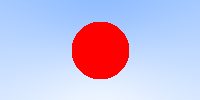
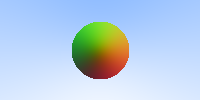
Oriented camera in positive z

Changed region(s): [[0.36, 0.21, 0.66, 0.81]]

diff --git a/src/main.rs b/src/main.rs
@@ -69,7 +69,13 @@ mod tests{
         assert_eq!(p.x, 1.0);
         assert_eq!(p.y, 1.0);
         assert_eq!(p.z, 1.0);
-        Vector3::new(1.0, 2.0, 3.0).dot(Vector3::new(3.0, 4.0, 1.0))
+        Vector3::new(1.0, 2.0, 3.0).dot(Vector3::new(3.0, 4.0, 1.0));
+    }
+
+    #[test]
+    fn test_unit_vector() {
+        let v = unit_vector(&Vector3::new(2.0, 2.0, 2.0));
+        assert_eq!(v.x, 0.57735026);
     }
 }
 
@@ -90,24 +96,40 @@ fn gradient_color(r: &Ray) -> Vector3<f32> {
     return (1.0-t) * Vector3::new(1.0, 1.0, 1.0) + t * Vector3::new(0.5, 0.7, 1.0);
 }
 
-fn test(v: Vector3<f32>) {
-    v.dot(v);
-}
-
 fn trace(r: &Ray) -> Vector3<f32> {
-    if hit_sphere(Vector3::new(0.0, 0.0, -1.0), 0.5, r) {
-        return Vector3::new(1.0, 0.0, 0.0)
+    let sphere_center = Vector3::new(0.0, 0.0, 1.0);
+    let (is_hit, surface_norm_t) = hit_sphere(
+        sphere_center,
+        0.5,
+        r
+    );
+    if is_hit {
+        let n = unit_vector(
+            //&(r.point(surface_norm_t) - Vector3::new(0.0, 0.0, -1.0))
+            &(r.point(surface_norm_t) - sphere_center)
+        );
+        println!("xyz = ({}, {}, {})", n.x, n.y, -1.0*n.z);
+        return 0.5 * Vector3::new(
+            n.x+1.0,
+            n.y+1.0,
+            n.z+1.0
+            //-1.0*n.z+1.0
+        );
+        //return Vector3::new(1.0, 0.0, 0.0)
     }
     gradient_color(r)
 }
 
-fn hit_sphere(center: Vector3<f32>, radius: f32, ray: &Ray) -> bool {
+fn hit_sphere(center: Vector3<f32>, radius: f32, ray: &Ray) -> (bool, f32) {
     let oc = ray.origin() - center;
     let a = ray.direction().dot(*ray.direction());
     let b = 2.0 * oc.dot(*ray.direction());
     let c = oc.dot(oc) - (radius*radius);
-    let d = b*b - 4.0*a*c;
-    (d > 0.0)
+    let d = (b*b) - (4.0*a*c);
+    (
+        d > 0.0,
+        (-1.0 * b) - (d.sqrt() / (2.0*a))
+    )
 }
 
 fn main() {
@@ -125,7 +147,9 @@ fn main() {
         data[i] = rng.gen();
     }*/
 
-    let lower_left = Vector3::new(-2.0, -1.0, -1.0);
+    // note: unlike in the book, i'm orienting my camera in the positive z
+    // direction, i'm not sure why but this seems to give better results.
+    let lower_left = Vector3::new(-2.0, -1.0, 1.0);
     let horizontal = Vector3::new(4.0, 0.0, 0.0);
     let vertical = Vector3::new(0.0, 2.0, 0.0);
     let origin = Vector3::new(0.0, 0.0, 0.0);
@@ -134,7 +158,7 @@ fn main() {
             let index = (y * IMG_WIDTH + x) * 3;
             let u: f32 = x as f32 / IMG_WIDTH as f32;
             let v: f32 = (IMG_HEIGHT as f32 - y as f32) / IMG_HEIGHT as f32;
-
+            //let v: f32 = y as f32 / IMG_HEIGHT as f32;
             let r = Ray::new(
                 origin,
                 lower_left + u * horizontal + v * vertical
@@ -148,7 +172,7 @@ fn main() {
     }
 
     let r = write_image(
-        &String::from("out3.png"),
+        &String::from("out5.png"),
         &data,
         IMG_WIDTH as u32,
         IMG_HEIGHT as u32   
